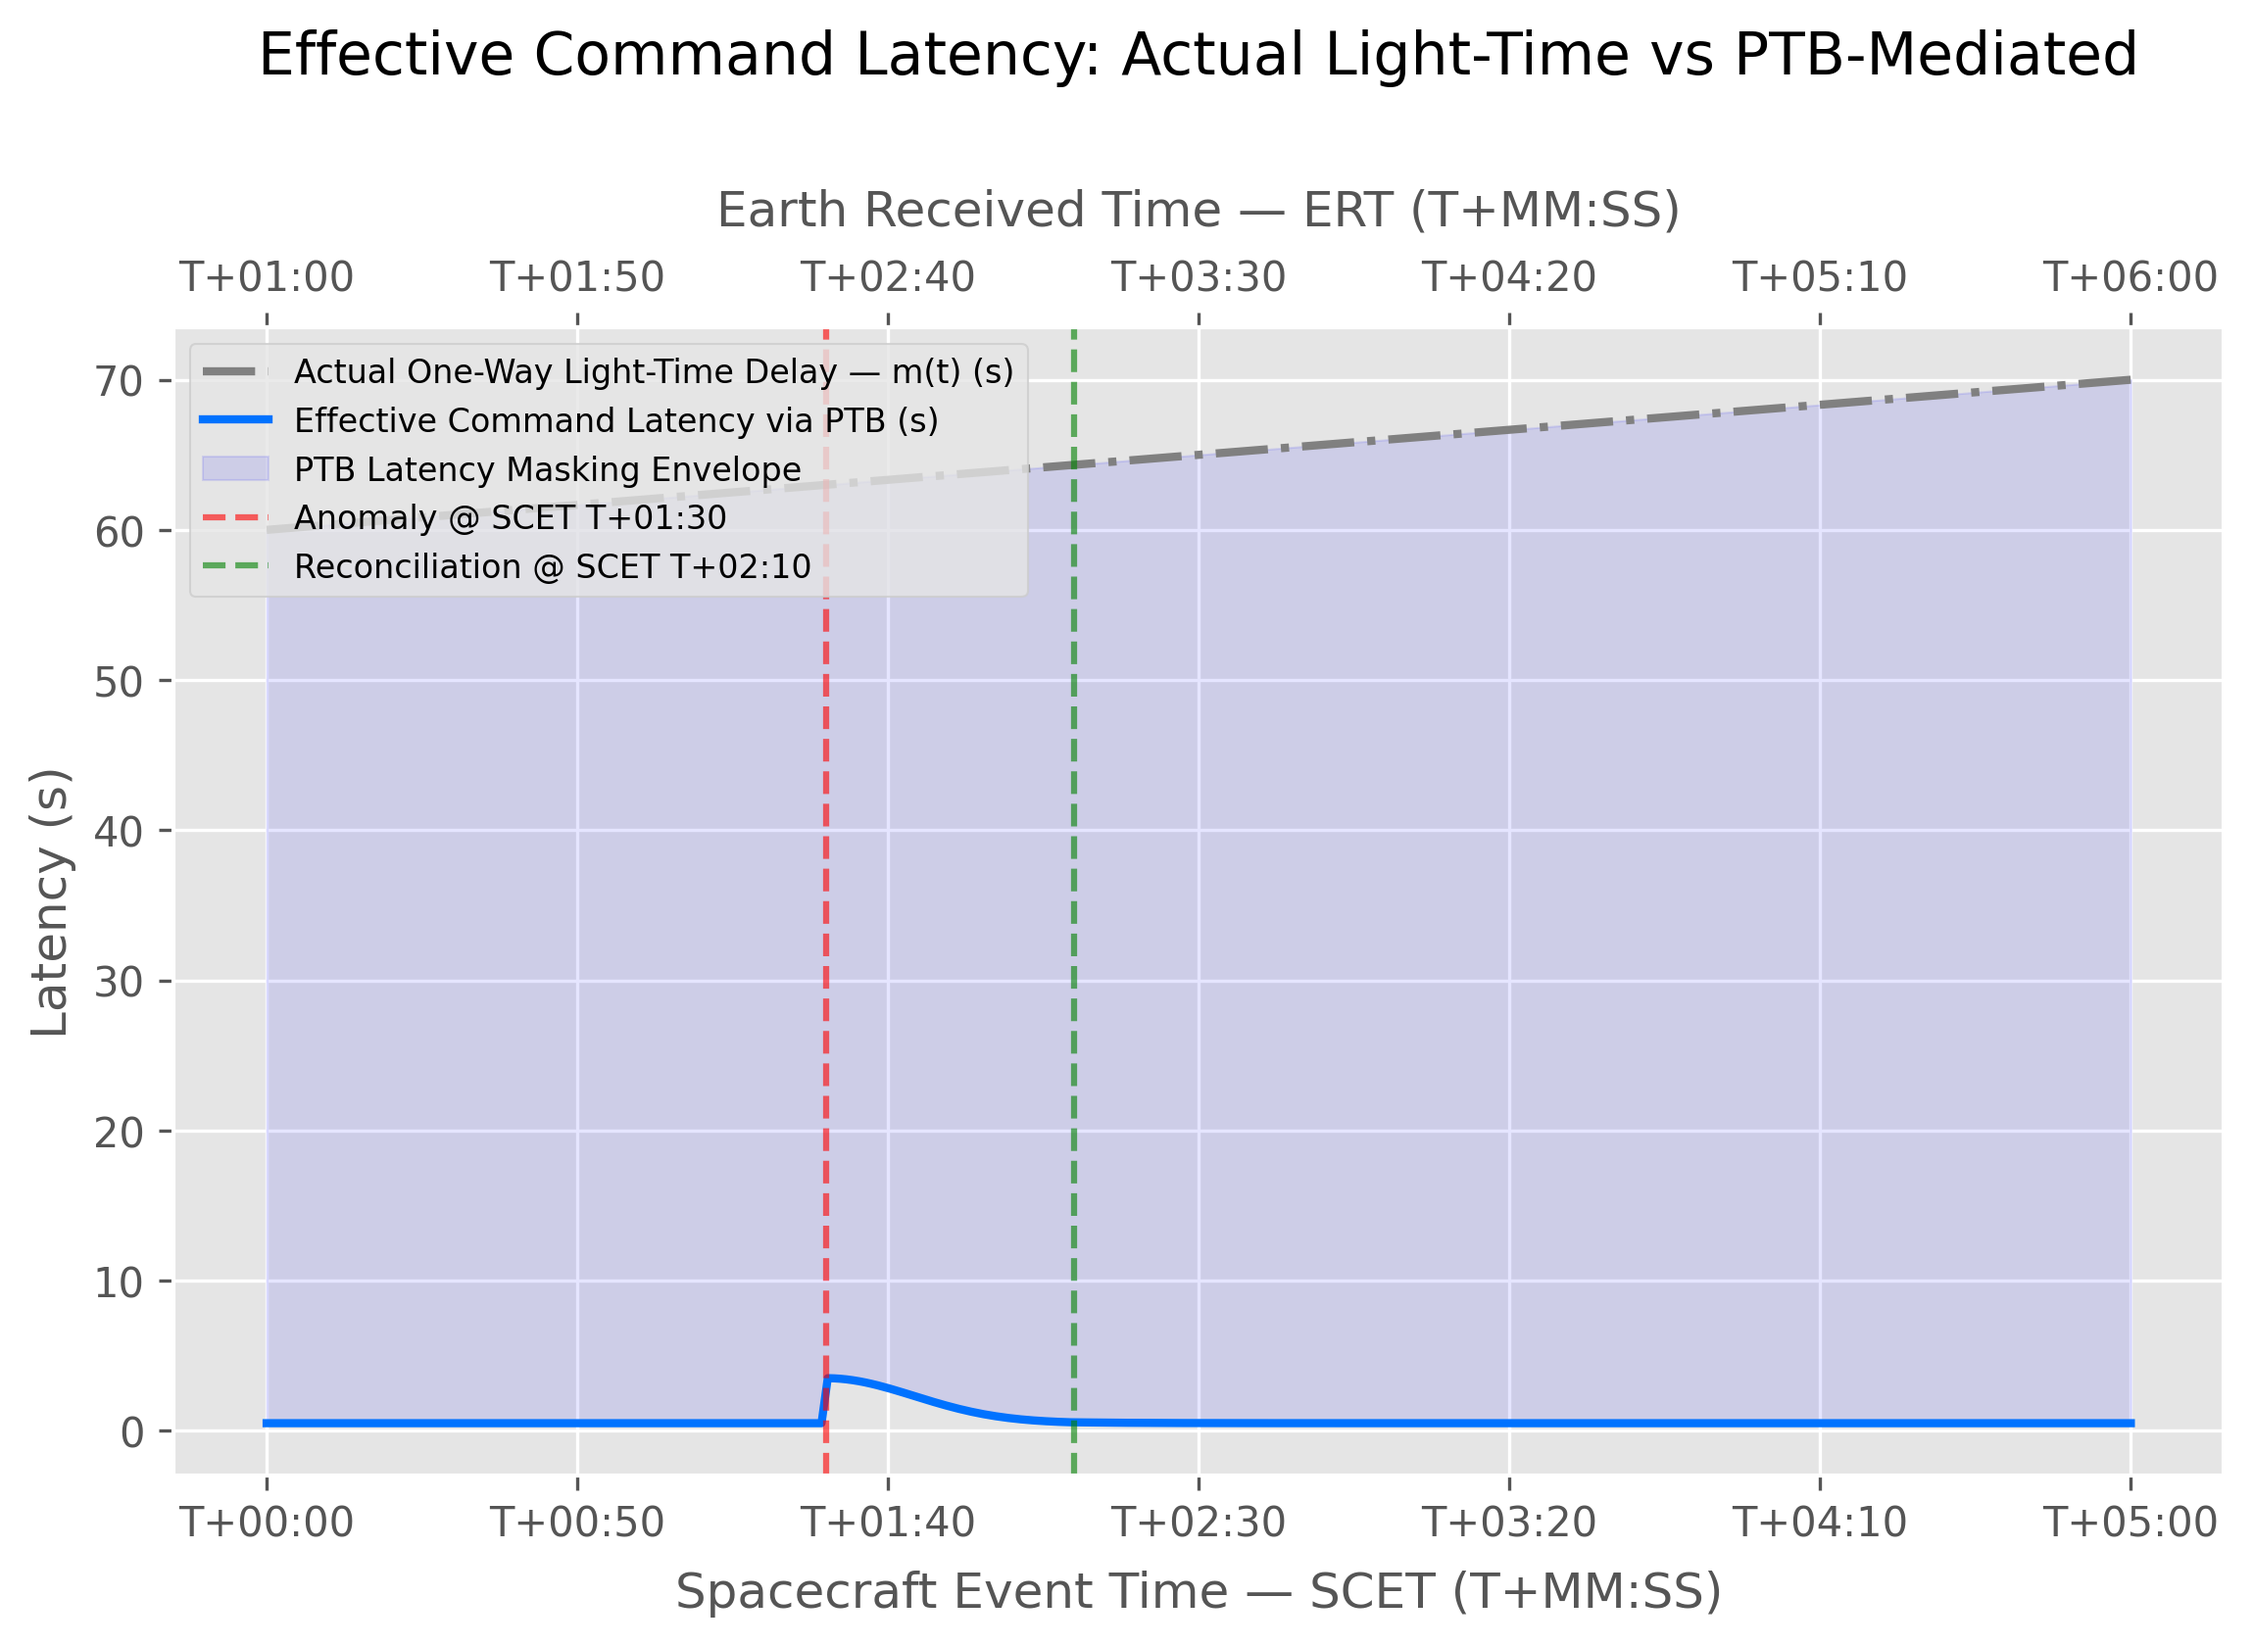
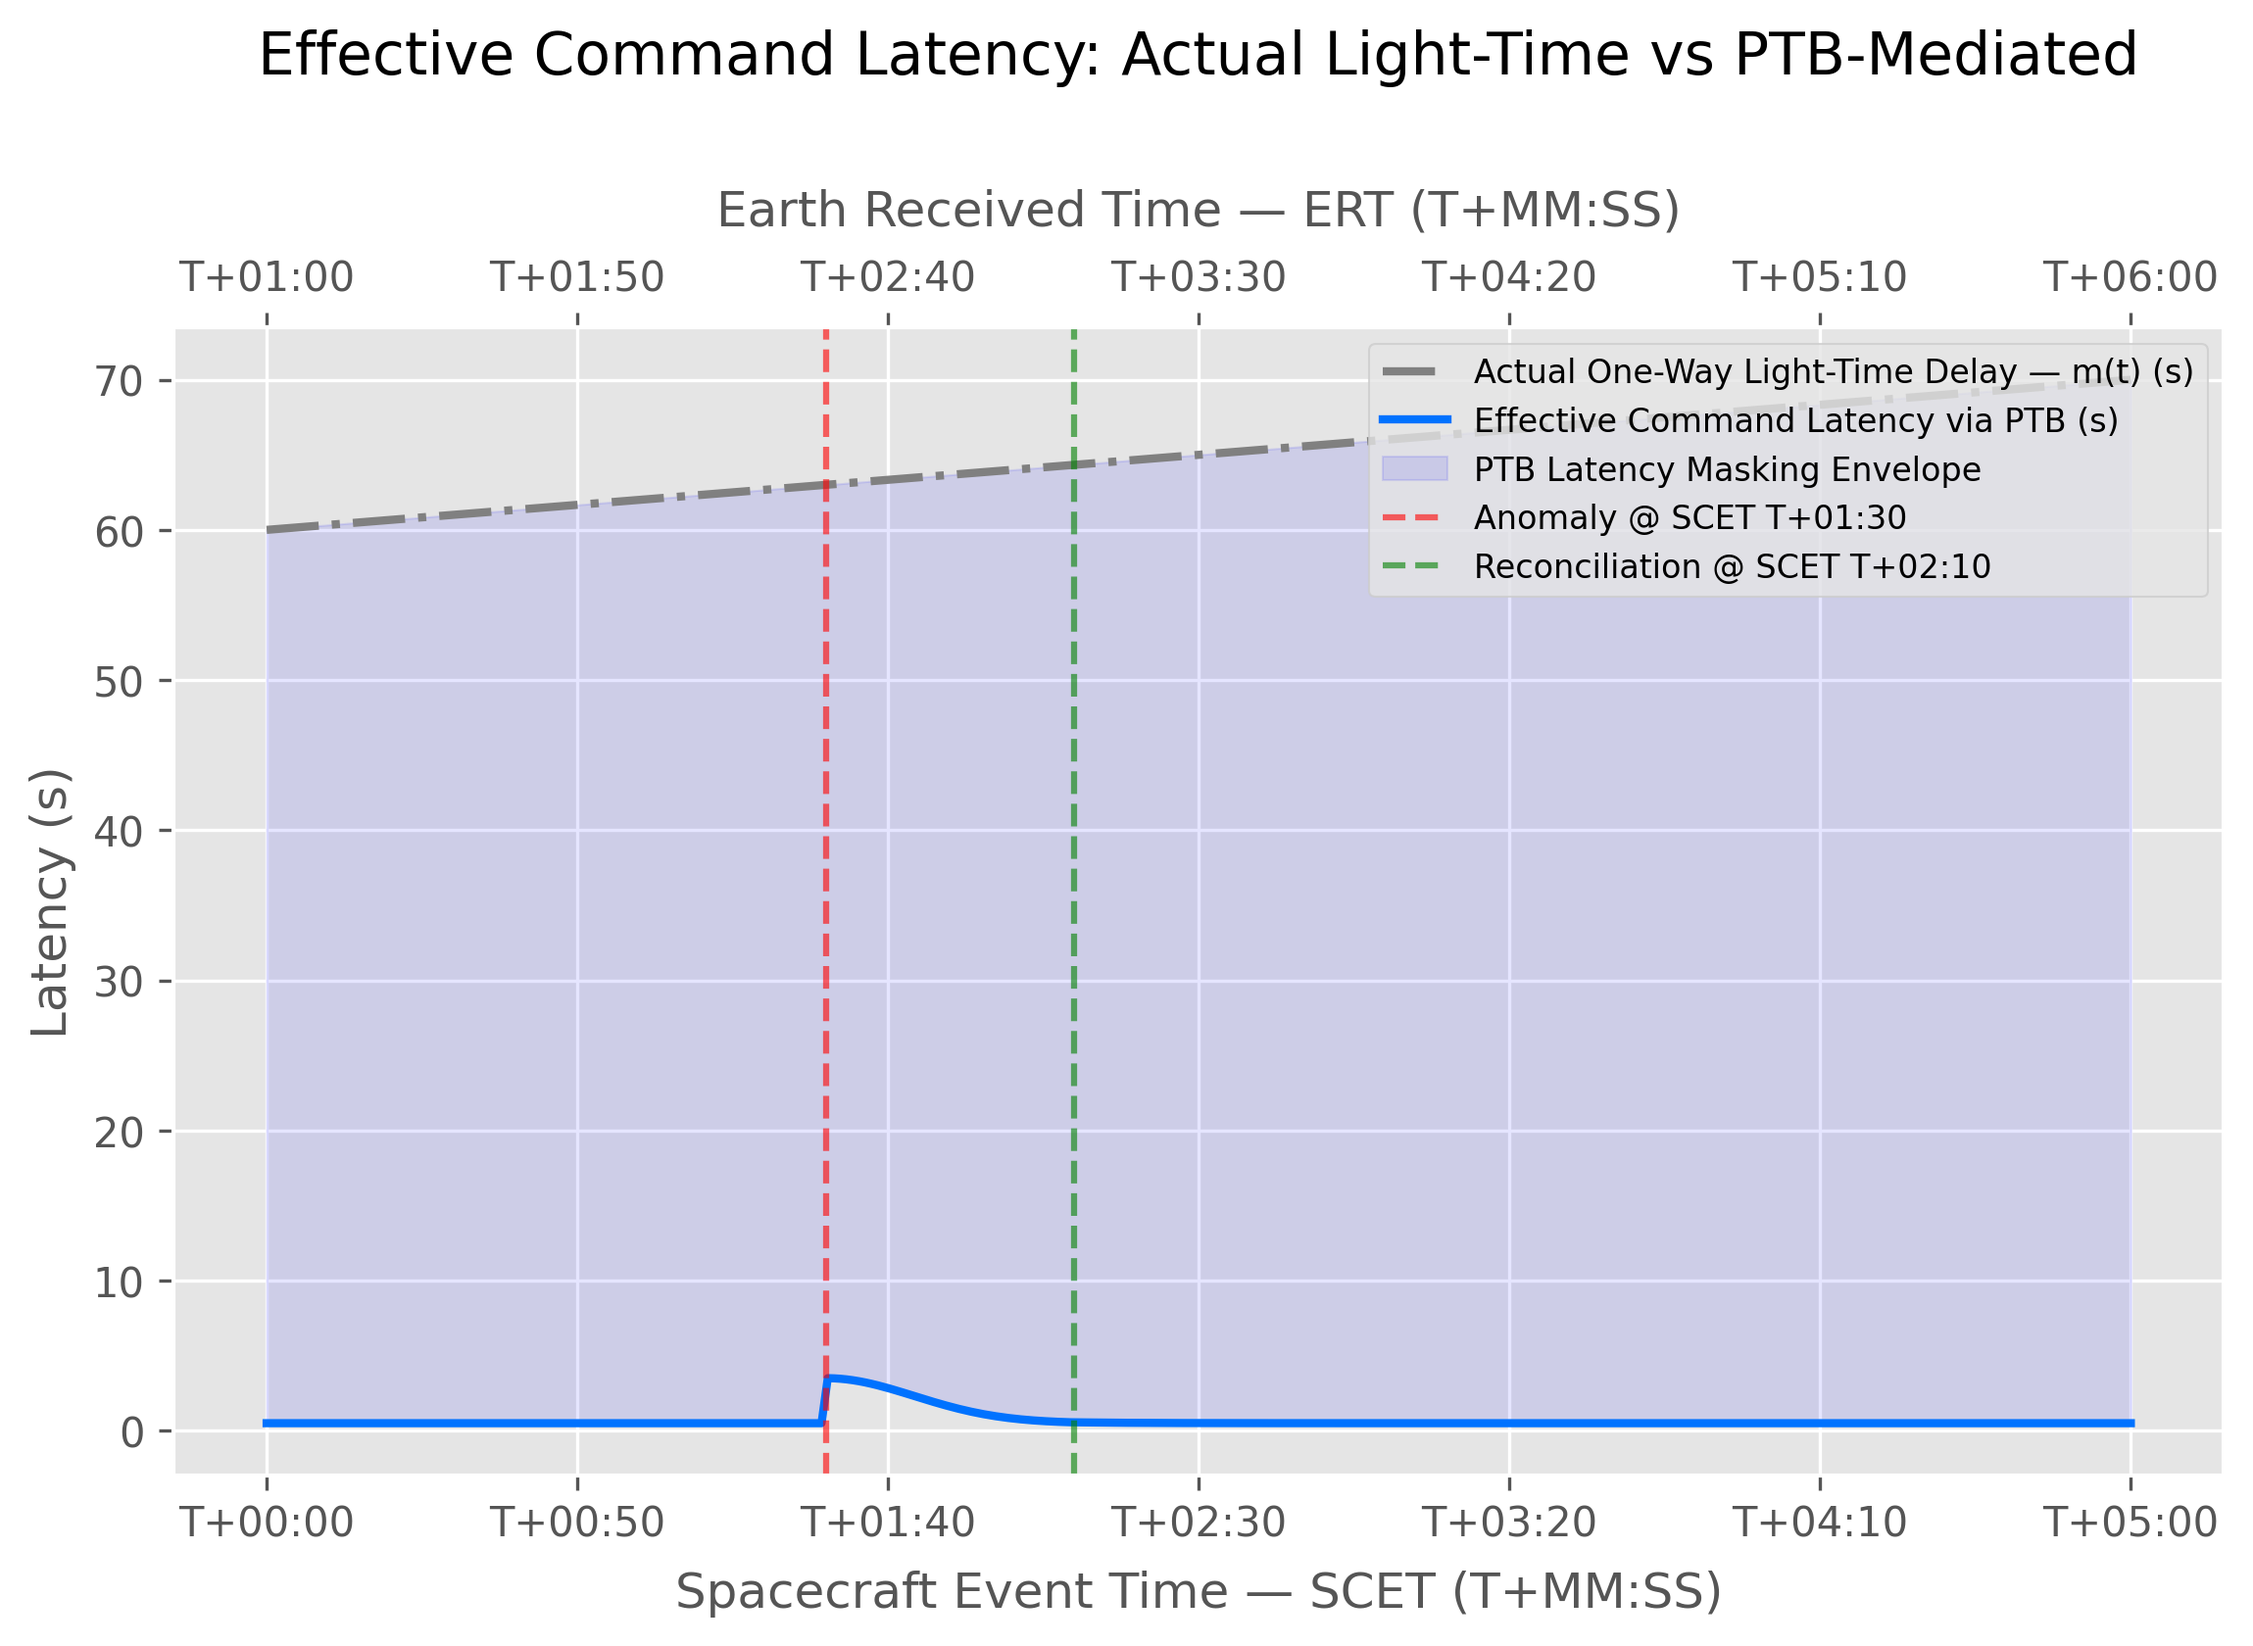
Move Fig 7 legend to upper right

Changed region(s): [[0.0926, 0.2167, 0.4632, 0.3714], [0.6177, 0.2167, 0.9574, 0.3714], [0.4015, 0.2167, 0.4632, 0.2476]]

diff --git a/VirtualPRB-DS-Communication/simulation/generate_plots.py b/VirtualPRB-DS-Communication/simulation/generate_plots.py
@@ -116,7 +116,7 @@ def generate_analytics():
     ax2.set_xlabel('Spacecraft Event Time — SCET (T+MM:SS)', labelpad=6)
     ax2.set_ylabel('Latency (s)')
     ax2.set_title('Effective Command Latency: Actual Light-Time vs PTB-Mediated', pad=28)
-    ax2.legend(fontsize=8, loc='upper left')
+    ax2.legend(fontsize=8, loc='upper right')
     # Top axis: ERT (Earth ground clock — offset by +m)
     ax2_top = ax2.secondary_xaxis('top')
     ax2_top.xaxis.set_major_formatter(mticker.FuncFormatter(fmt_ert))
